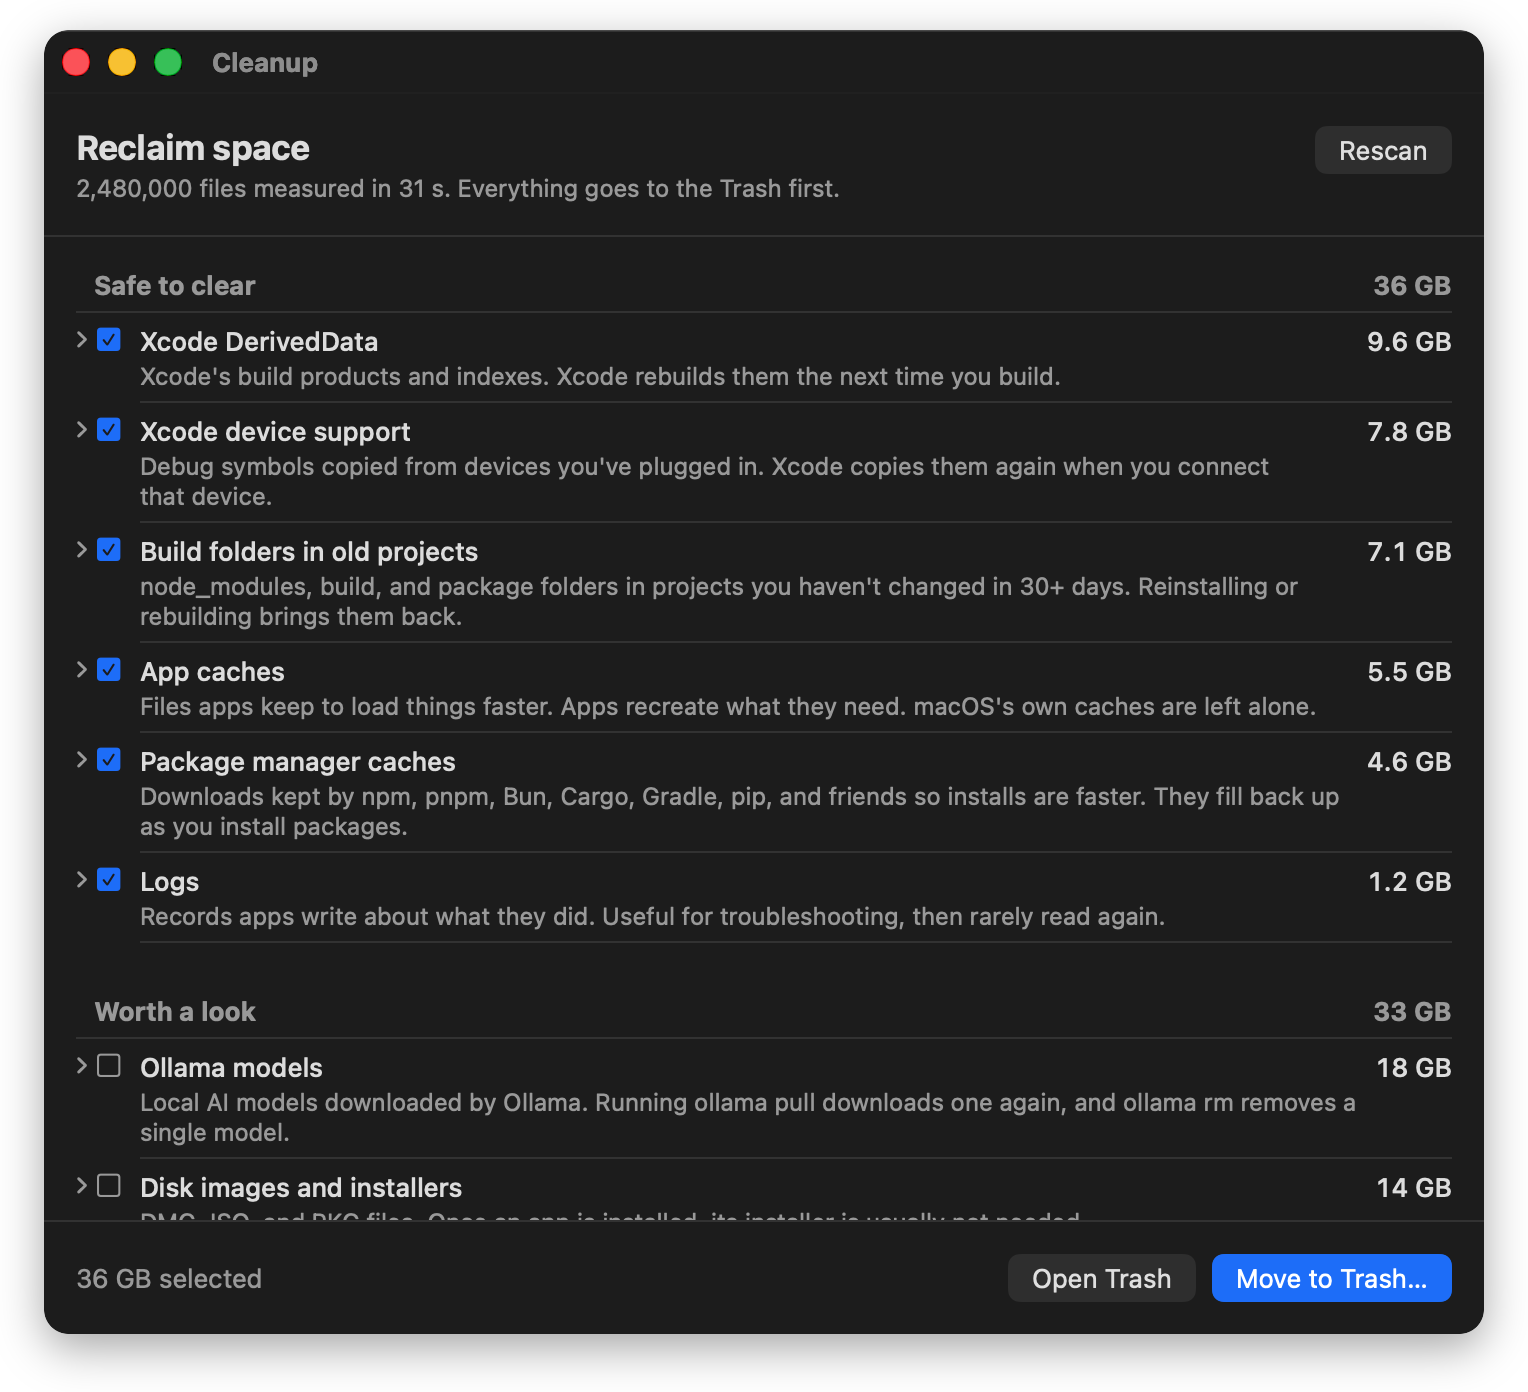
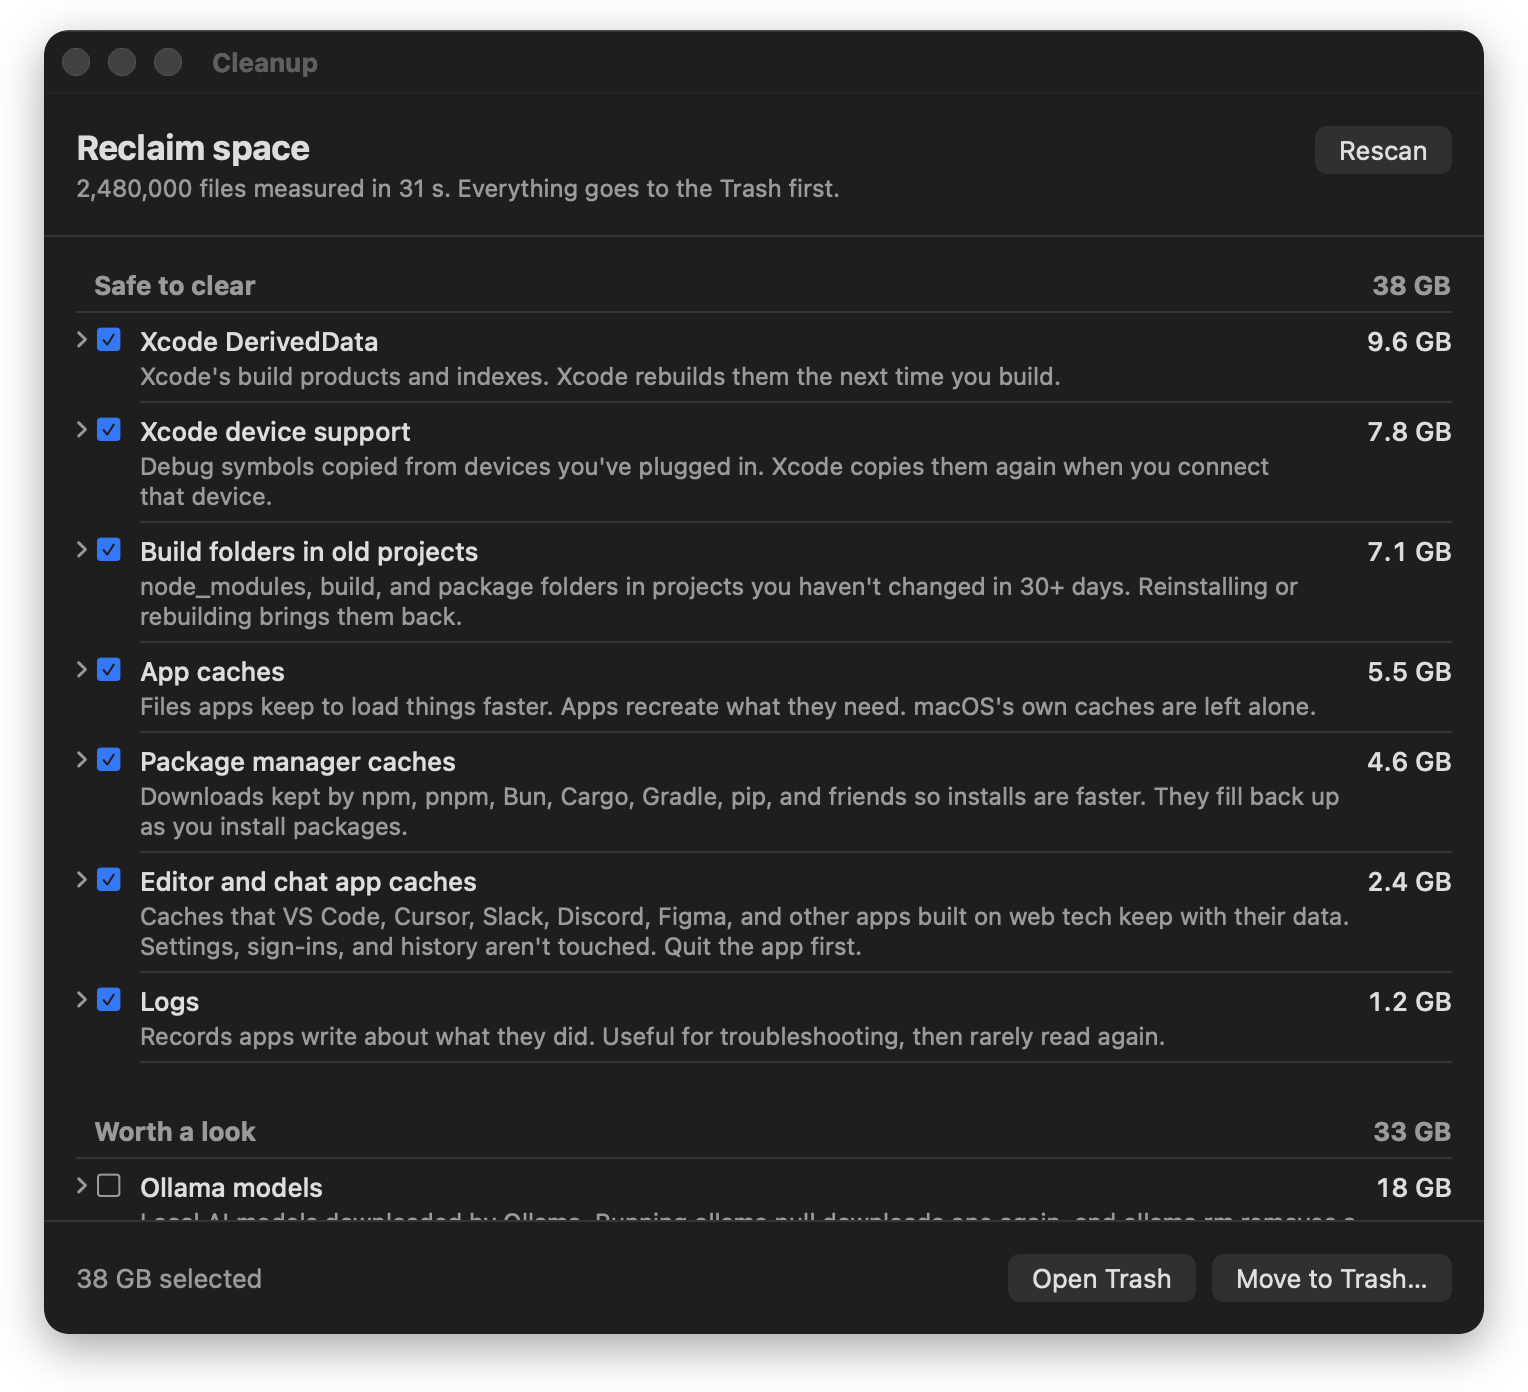
Show Editor and chat app caches in the README cleanup screenshots

diff --git a/README.md b/README.md
@@ -32,7 +32,7 @@ It's a free alternative to DiskBuddy, DaisyDisk, and CleanMyMac for the job they
   </picture>
   <picture>
     <source media="(prefers-color-scheme: dark)" srcset=".github/images/cleanup-dark.png">
-    <img src=".github/images/cleanup-light.png" width="49%" align="top" alt="The Cleanup window: Safe to clear lists Xcode DerivedData, Xcode device support, build folders in old projects, app caches, package manager caches, and logs, each with a plain explanation; Worth a look lists Ollama models and disk images, unchecked">
+    <img src=".github/images/cleanup-light.png" width="49%" align="top" alt="The Cleanup window: Safe to clear lists Xcode DerivedData, Xcode device support, build folders in old projects, app caches, package manager caches, editor and chat app caches, and logs, each with a plain explanation; Worth a look lists Ollama models and disk images, unchecked">
   </picture>
 </p>
 
